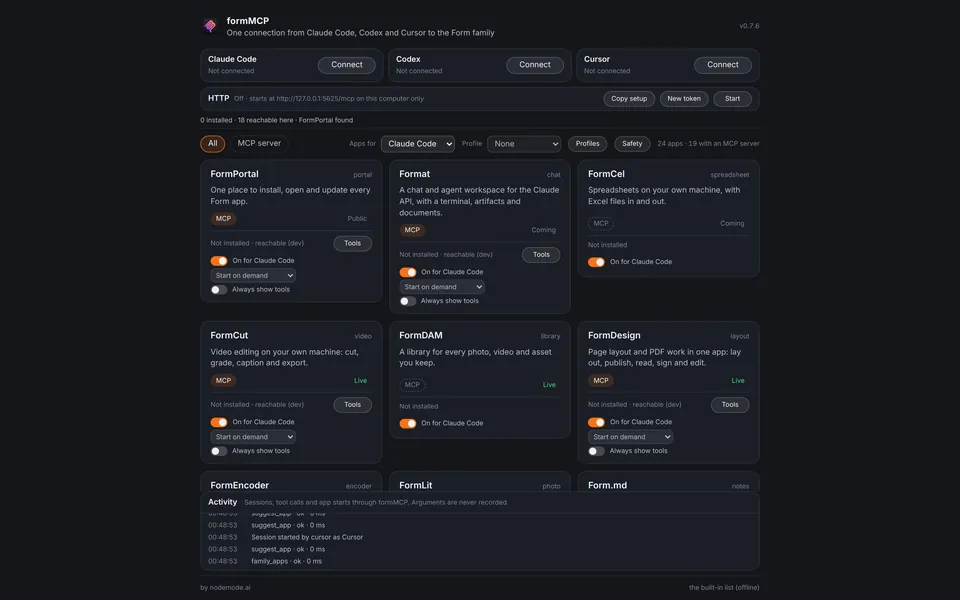
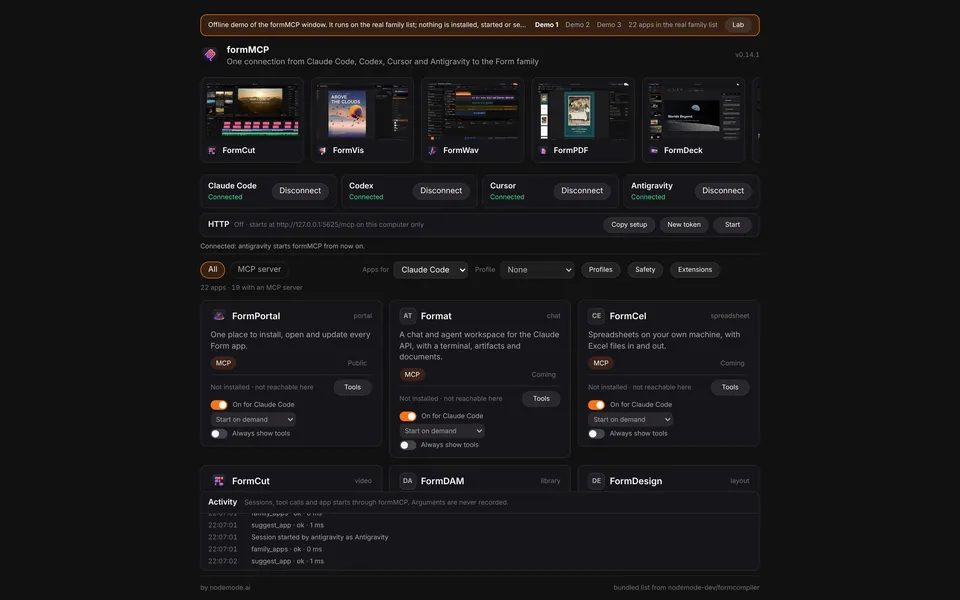
docs(demo): the window preview in the Demos panel shows four agents
Demo 1's mcp-hero.webp, the small window picture the app's Demos panel
shows, was made from the old three-card hero. It is made again from
today's docs/images/formmcp-hero.png the way CREDITS.md says every shot
was: 960 by 600, lossy WebP at quality 80, nothing cropped. setup/hero.py
now writes it after the PNG, and --preview-only makes it from the PNG
already there (how this one was made). Stays 0.14.1: no app code changed.

Checked: demo 1 rebuilt by npm run build:demo (bundle unchanged, the
preview is a plain file); npm run build copies the new preview into the
window's bundle byte for byte; demo 1 opened from file:// dark and light,
v0.14.1, the preview loads at 960 by 600, console errors 0 and 0;
tsc on demos/connect and demos/safety 0 errors; em dash and emoji scan
clean.

diff --git a/setup/hero.py b/setup/hero.py
@@ -59,19 +59,40 @@ def capture(root, out, scheme):
         from PIL import Image
     except ImportError:
         out.write_bytes(shot)
-        return
-    Image.open(io.BytesIO(shot)).convert("RGB").save(out, optimize=True)
+        return None
+    image = Image.open(io.BytesIO(shot)).convert("RGB")
+    image.save(out, optimize=True)
+    return image
+
+
+def preview(image, path):
+    from PIL import Image
+    width = 960
+    small = image.resize((width, round(image.height * width / image.width)), Image.Resampling.LANCZOS)
+    small.save(path, "WEBP", quality=80)
 
 
 def main():
     parser = argparse.ArgumentParser(description="Remake docs/images/formmcp-hero.png from the built demo 1 (demo/index.html).")
     parser.add_argument("--out", type=Path, help="where to write the picture (default: docs/images/formmcp-hero.png)")
     parser.add_argument("--scheme", choices=["dark", "light"], default="dark")
+    parser.add_argument("--preview", type=Path, help="where to write demo 1's 960 px preview (default: demo/assets/media/shots/mcp-hero.webp)")
+    parser.add_argument("--preview-only", action="store_true", help="make the preview from the picture already at --out, without taking a new one")
     a = parser.parse_args()
     root = Path(__file__).resolve().parent.parent
     out = a.out or root / "docs" / "images" / "formmcp-hero.png"
-    capture(root, out, a.scheme)
-    print(f"wrote {out}")
+    small = a.preview or root / "demo" / "assets" / "media" / "shots" / "mcp-hero.webp"
+    if a.preview_only:
+        from PIL import Image
+        image = Image.open(out).convert("RGB")
+    else:
+        image = capture(root, out, a.scheme)
+        print(f"wrote {out}")
+    if image is None:
+        print("Pillow is not installed: the preview was not made")
+        return 1
+    preview(image, small)
+    print(f"wrote {small}")
     return 0
 
 

diff --git a/demo/HASHOUT_LOG.md b/demo/HASHOUT_LOG.md
@@ -12,7 +12,7 @@ Last updated: 2026-11-20 · v0.14.1 the README's hero picture is made from this 
 - kind: decision
 - logged: v0.14.1 · 2026-11-20
 
-The README's hero was a still screenshot (PNG, 3200 by 2000) of the v0.7.6 desktop window with three agent cards, taken by hand in November with FormPortal found and checkouts reachable in development; no script made it, and the desktop window with a real FormPortal cannot be run on the build machine, so that picture cannot be remade as it was. It is replaced, at the same name, place, type and size, by a picture of today's window as this demo shows it, with the demo strip and screenshot reel left in so nobody mistakes it for the desktop app; the README's alt text and caption say so. `setup/hero.py` makes it again: it opens the built `demo/index.html` from file:// in Playwright's Chromium at 1600 by 1000 CSS pixels and device scale 2, dark scheme, checks that the window shows exactly the cards Claude Code, Codex, Cursor and Antigravity, then for each agent in that order presses Connect and runs `family_apps` and `suggest_app` as that agent from the Lab's Console (the same walk the old picture's log shows: sessions, then family_apps and suggest_app calls), closes the Lab, and saves the viewport; it stops on any console error. Pillow, when present, recompresses the PNG. Run it after `npm run build:demo` with `PLAYWRIGHT_BROWSERS_PATH` pointing at the browsers: `python3 setup/hero.py` (or `--out` elsewhere, `--scheme light`). The demo's own `mcp-hero.webp` preview is a separate picture and was not changed.
+The README's hero was a still screenshot (PNG, 3200 by 2000) of the v0.7.6 desktop window with three agent cards, taken by hand in November with FormPortal found and checkouts reachable in development; no script made it, and the desktop window with a real FormPortal cannot be run on the build machine, so that picture cannot be remade as it was. It is replaced, at the same name, place, type and size, by a picture of today's window as this demo shows it, with the demo strip and screenshot reel left in so nobody mistakes it for the desktop app; the README's alt text and caption say so. `setup/hero.py` makes it again: it opens the built `demo/index.html` from file:// in Playwright's Chromium at 1600 by 1000 CSS pixels and device scale 2, dark scheme, checks that the window shows exactly the cards Claude Code, Codex, Cursor and Antigravity, then for each agent in that order presses Connect and runs `family_apps` and `suggest_app` as that agent from the Lab's Console (the same walk the old picture's log shows: sessions, then family_apps and suggest_app calls), closes the Lab, and saves the viewport; it stops on any console error. Pillow, when present, recompresses the PNG. Run it after `npm run build:demo` with `PLAYWRIGHT_BROWSERS_PATH` pointing at the browsers: `python3 setup/hero.py` (or `--out` elsewhere, `--scheme light`). The 960 by 600 preview `assets/media/shots/mcp-hero.webp`, which the window's Demos panel shows (`frontend/index.html`; demo 1 itself only lists it, and the build copies it unchanged), is made from the same picture the way CREDITS.md says every shot was: downscaled to 960 px wide, lossy WebP at quality 80, nothing cropped. `setup/hero.py` writes it after the PNG; `--preview-only` makes it from the PNG already there, without a new capture, which is how the 0.14.1 preview was made.
 
 ## v0.13.0 · four agent programs, FormVis's surfaces {#v0-13-0}
 

diff --git a/demo/CREDITS.md b/demo/CREDITS.md
@@ -28,7 +28,7 @@ Apps without a file here (Format, FormCel, FormDAM, FormDesign, FormPath, FormPr
 
 | File | Title | Author | Source file in the repository | Licence |
 | --- | --- | --- | --- | --- |
-| mcp-hero.webp | FormMCP window | nodemode-ai | formMCP `docs/images/formmcp-hero.png` | GPL-3.0-only (LICENSE), the owner's own art |
+| mcp-hero.webp | FormMCP window as demo 1 shows it (0.14.1, made by `setup/hero.py`); its reel holds the sibling screenshots credited in this table | nodemode-ai | formMCP `docs/images/formmcp-hero.png` | GPL-3.0-only (LICENSE), the owner's own art; the media inside the reel screenshots is credited below |
 | mcp-agents.webp | FormMCP agents view | nodemode-ai | formMCP `docs/images/formmcp-agents.webp` | GPL-3.0-only (LICENSE), the owner's own art |
 | mcp-safety.webp | FormMCP safety view | nodemode-ai | formMCP `docs/images/formmcp-safety.png` | GPL-3.0-only (LICENSE), the owner's own art |
 | formcut.webp | FormCut window, demo film "High Country" | nodemode-ai | sidecar demo screenshot of formcut 2.13.1 (`/home/claude/sidecars/formcut/demo-screenshot.png`) | Apache-2.0 (formcut LICENSE); media in the capture is credited in formcut `demo/CREDITS.md` and listed below |

diff --git a/CHANGELOG.md b/CHANGELOG.md
@@ -4,6 +4,7 @@
 
 - Demo 2 shows what FormMCP says when only an older Antigravity file is there: its virtual home starts with `~/.gemini/antigravity-cli/mcp_config.json`, the file earlier Antigravity versions used, and no file at `~/.gemini/config/mcp_config.json`. As in the app, the Antigravity card's Connect button tells you the older file was seen and left alone and where FormMCP writes; the Agent setup pane says the same under the file's name. The older file is never changed.
 - The README's main picture shows today's window, from the offline demo, with all four agents: Claude Code, Codex, Cursor and Antigravity connected and a log of their sessions and calls. It can be made again with `setup/hero.py`.
+- The small preview of the window in the app's Demos panel (demo 1's `mcp-hero.webp`) is made from that new picture, so it also shows four agents; `setup/hero.py` makes it too.
 - All three demos are rebuilt for this version.
 
 ## v0.14.0 · 2026-11-20
